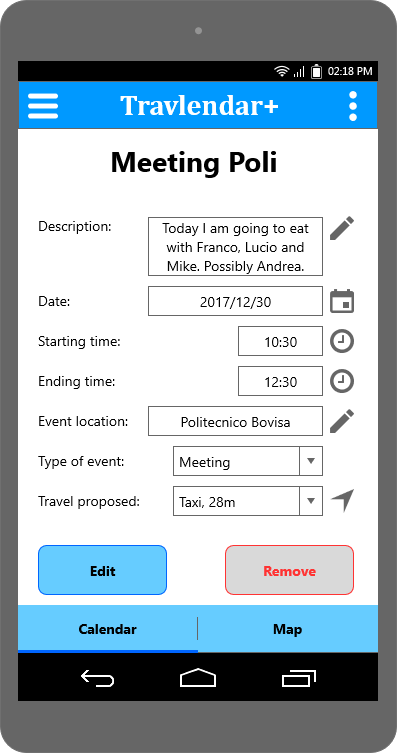
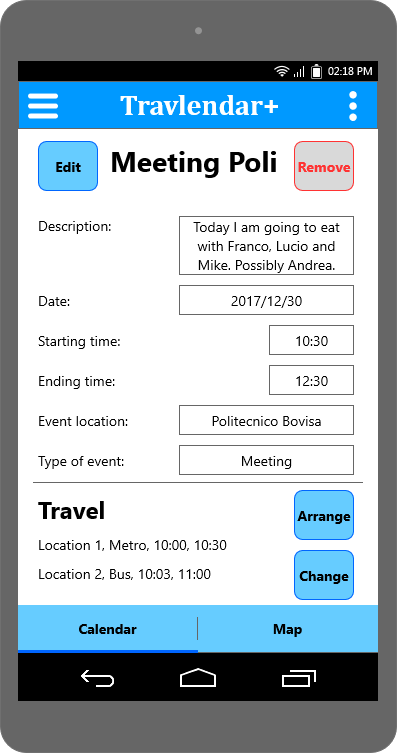
mockups editing

diff --git a/DD/4-UserInterfaceDesign/user_interface_design.tex b/DD/4-UserInterfaceDesign/user_interface_design.tex
@@ -30,7 +30,15 @@ We've included an unique \textit{UX diagram} and an unique \textit{BCE diagram} 
 		\hspace{.3cm}
 		\includegraphics[scale=0.35]{mockup/app/Calendar/Schedule/01-View_Event}
 		\centering 
-		\caption{The user can see his schedule and view, edit or modify its events.}
+		\caption{The user can see his schedule and view its events.}
+	\end{figure}
+	
+	\begin{figure}[H]
+		\includegraphics[scale=0.35]{mockup/app/Calendar/Schedule/02-Edit_Event}
+		\hspace{.3cm}
+		\includegraphics[scale=0.35]{mockup/app/Calendar/Schedule/03-Arrange_Trip}
+		\centering 
+		\caption{The user can edit and arrange its trip.}
 	\end{figure}
 	
 	\begin{figure}[H]
